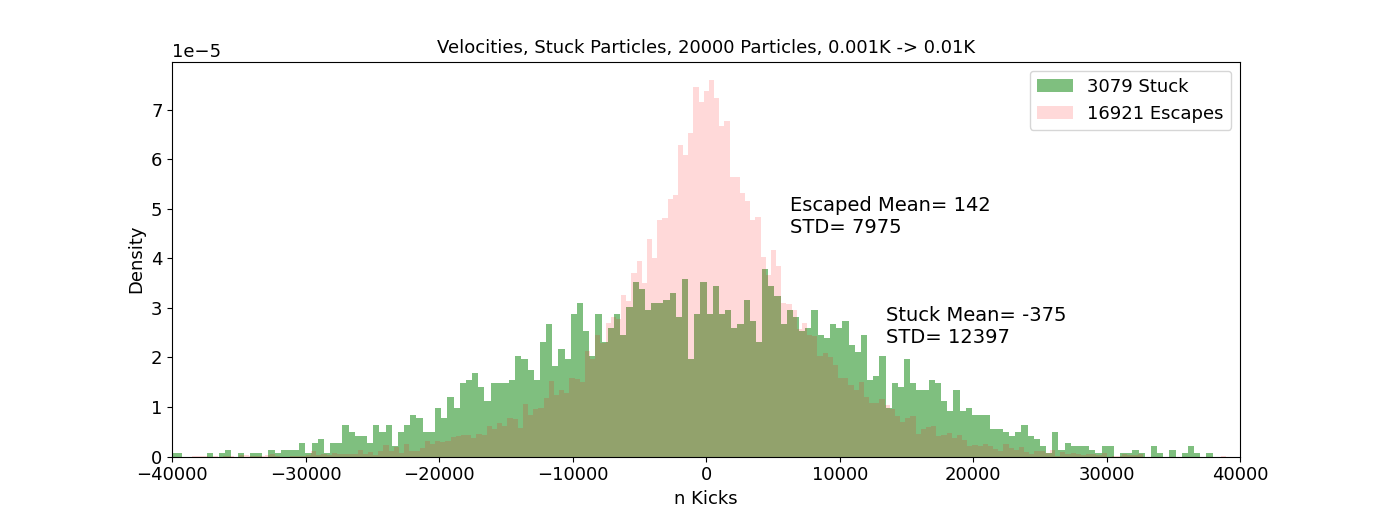
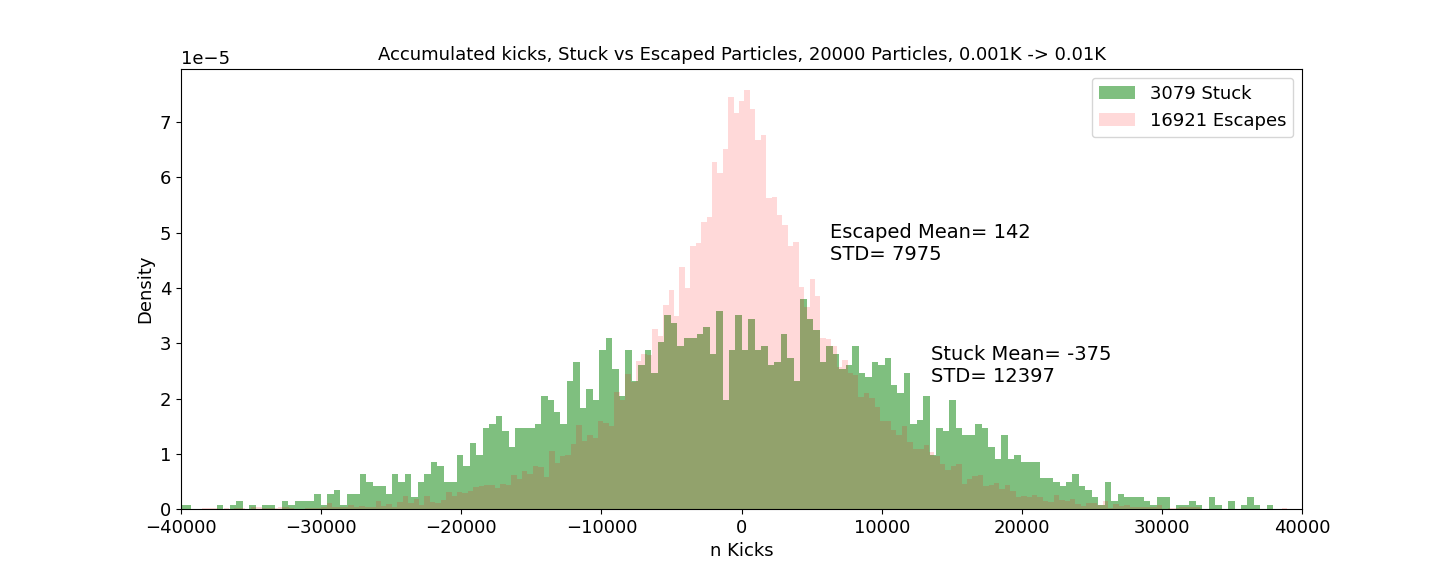
fixed mistake in title

diff --git a/timetoescape/sim.py b/timetoescape/sim.py
@@ -402,7 +402,7 @@ def HistKicksDistStucks(filename):
     plot.text(13500,0.000023,"Stuck Mean= {0:3.0f}\nSTD= {1:3.0f}".format(np.mean(dat[3]),np.std(dat[3])),fontsize=14)
     plot.hist(escapes[2], bins=200, alpha=0.15, color='red',density=True, label="{0} Escapes".format(np.size(escapes[2])))
     plot.text(6300,0.000045,"Escaped Mean= {0:3.0f}\nSTD= {1:3.0f}".format(np.mean(escapes[2]),np.std(escapes[2])),fontsize=14)
-    plot.title(r"Velocities, Stuck Particles, {0} Particles, {1}K -> {2}K".format(NUMBER, INITEMP, THRESHOLD, len(dat[1])))
+    plot.title(r"Accumulated kicks, Stuck vs Escaped Particles, {0} Particles, {1}K -> {2}K".format(NUMBER, INITEMP, THRESHOLD, len(dat[1])))
 
     plot.text(6,25, "Mean={0:3.2f}ms-1\nSTD={1:3.2f}ms-1".format(np.mean(dat[1]),np.std(dat[1])),fontsize=14)
     